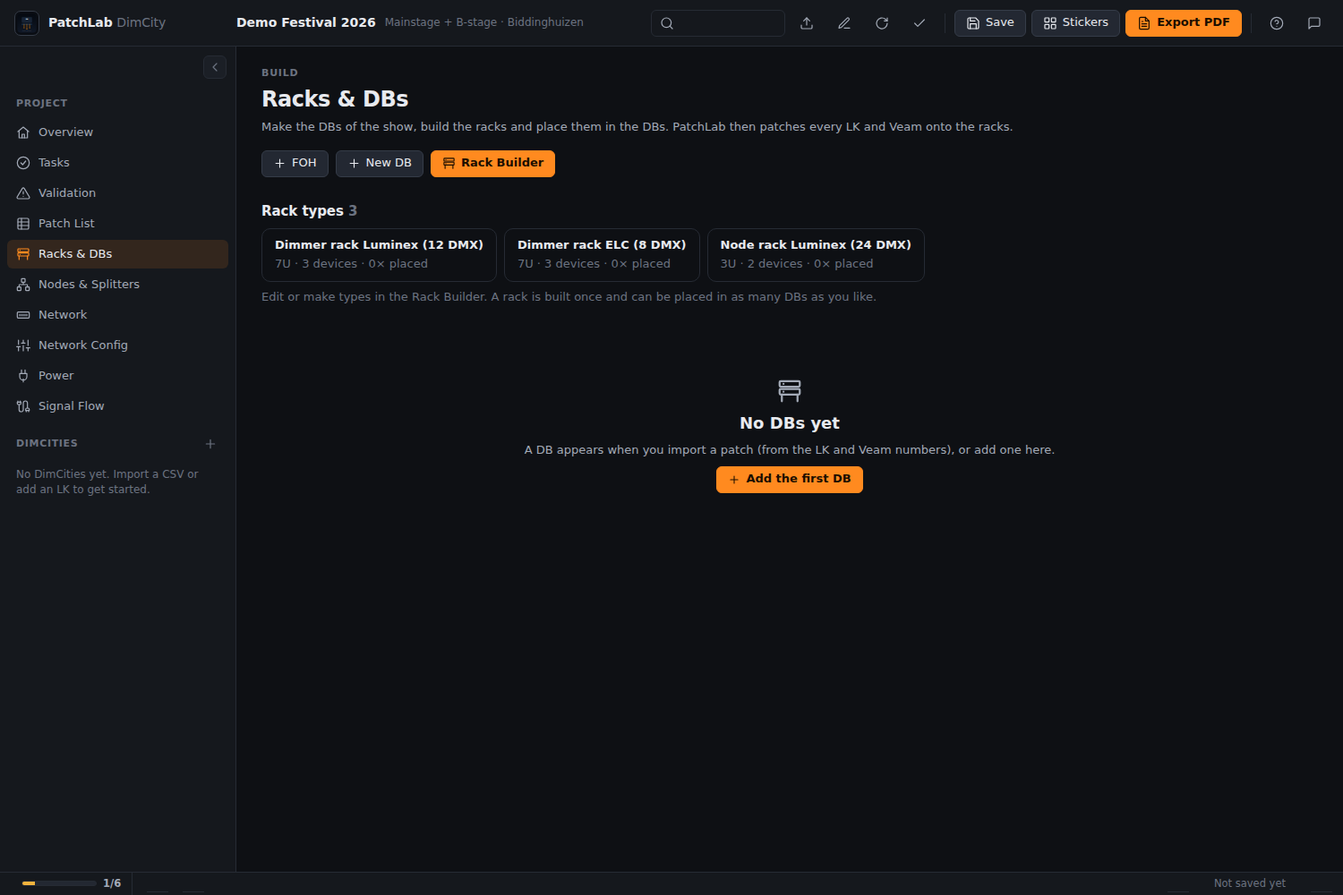
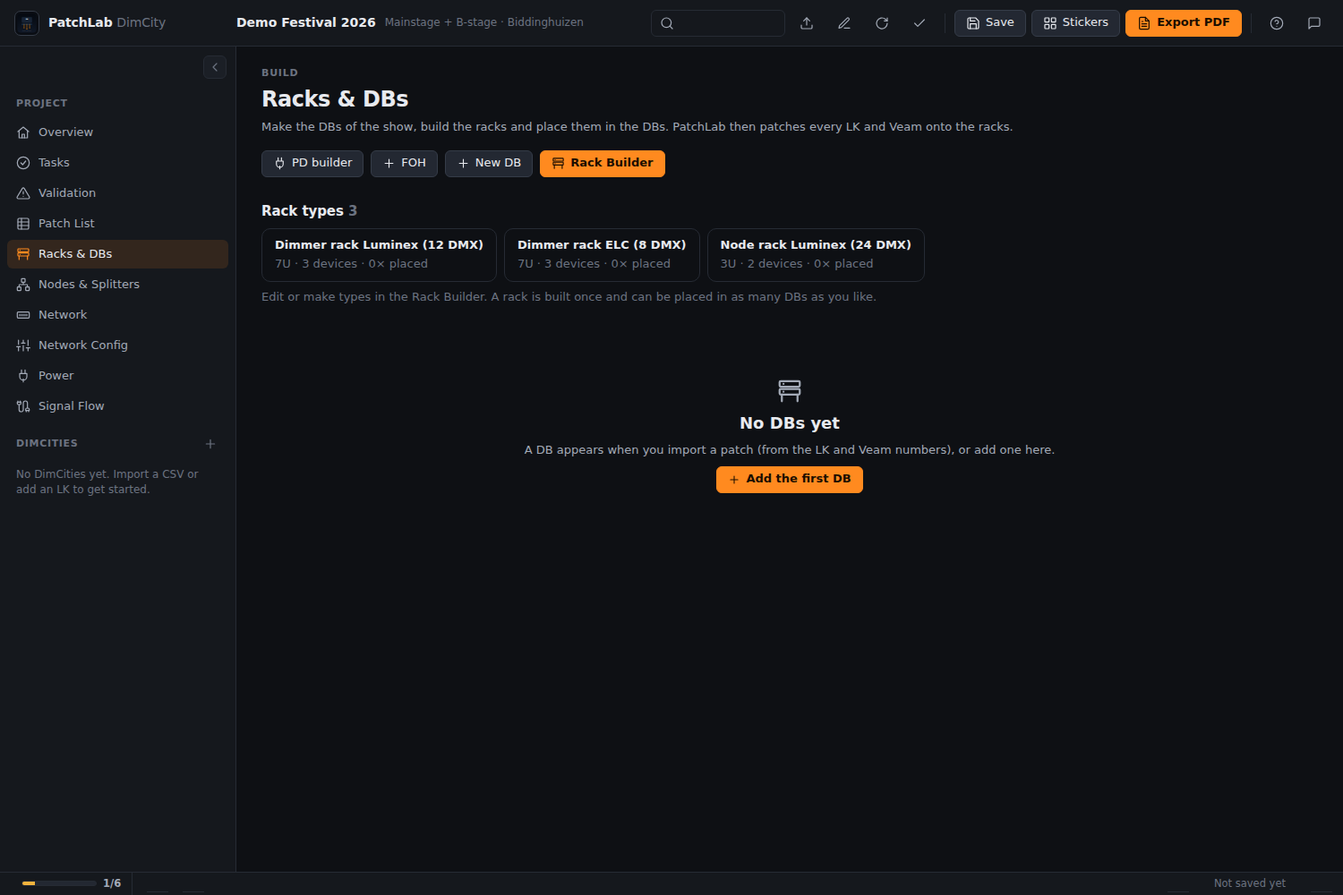
PD builder: phase per outlet, breaker groups with shared limits, order, front preview; button on the Racks & DBs page
Claude-Session: https://claude.ai/code/session_011zJcwnePXPnek3P52mJGYA

Changed region(s): [[0.2147, 0.155, 0.4907, 0.217]]

diff --git a/ui/power.js b/ui/power.js
@@ -29,7 +29,7 @@
     const sc = App.$('#mainScroll'), top = sc ? sc.scrollTop : 0;
     App.pageHead?.({ eyebrow:t('Power', 'Stroom'), title:t('Power distribution', 'Stroomverdeling'), sub:t('PDs, Socapex cables and feeds: what hangs where, and how many amps each phase pulls.', 'PD’s, Socapex-kabels en voedingen: wat waar hangt en hoeveel ampère elke fase trekt.'),
       actions:`<button id="pwImport">${I('upload', 15)}${t('Import fixture sheet…', 'Armaturenblad importeren…')}</button><button id="pwBookDc" ${p.pds.length && U.dc ? '' : 'disabled'}>${I('file', 15)}${t('Booklet', 'Boekje')} ${esc(U.dc || '')}</button><button class="primary" id="pwBook" ${p.pds.length ? '' : 'disabled'}>${I('file', 15)}${t('Booklet, all DBs (PDF)', 'Boekje, alle DB’s (PDF)')}</button><input type="file" id="pwFile" accept=".csv,.txt,.tsv" style="display:none">` });
-    const tabs = [['overview', t('Overview', 'Overzicht')], ['pds', t('PDs & feeds', 'PD’s & voedingen')], ['types', t('PD types', 'PD-typen')]];
+    const tabs = [['overview', t('Overview', 'Overzicht')], ['pds', t('PDs & feeds', 'PD’s & voedingen')], ['types', t('PD builder', 'PD-bouwer')]];
     root.innerHTML = `<div class="stack pw">
       <div class="pw-tabs">${tabs.map(([k, l]) => `<button class="${U.tab === k && !U.pd ? 'on' : ''}" data-tab="${k}">${l}</button>`).join('')}${U.pd ? `<button class="on">${esc(U.pd)}</button>` : ''}</div>
       ${U.msg ? `<div class="hint">${I('info', 13)} ${esc(U.msg)}</div>` : ''}
@@ -97,24 +97,41 @@
         rows.push(`<tr class="${i === 0 ? 'pw-first' : ''}">${i === 0 ? `<td rowspan="6" class="pw-soca">Soca ${s.letter}${s.cable ? `<br><small>${esc(s.cable)}</small>` : ''}</td>` : ''}<td>${r.slots.indexOf(s) + 1}.${n}</td><td>${esc(PW.dmxLabel(fx))}</td><td>${s.cable ? `${esc(s.cable)}-${n}` : ''}</td><td>${esc(PW.unitRanges(fx.map(f => f.unit)))}</td><td>${esc(PW.fixturesText(fx))}</td><td>${esc(PW.positionText(fx))}</td>${[1, 2, 3].map(q => `<td class="pw-n ${a > p.settings.circuitMax && ph === q ? 'bad' : ''}">${ph === q && a ? r1(a) : ''}</td>`).join('')}</tr>`); });
       rows.push(`<tr class="pw-sum"><td colspan="7">Total Soca ${s.letter}</td>${phaseCells(s.perPhase)}</tr>`);
     }
-    const man = r.manual.map(o => { const m = d.manual[o.key] || {}; return `<tr><td>${esc(o.label)}</td><td><input data-man="${esc(d.id)}" data-key="${esc(o.key)}" data-k="label" value="${esc(m.label || '')}" style="width:160px"></td><td><input data-man="${esc(d.id)}" data-key="${esc(o.key)}" data-k="location" value="${esc(m.location || '')}" style="width:120px"></td>${['l1', 'l2', 'l3'].map(k => `<td><input data-man="${esc(d.id)}" data-key="${esc(o.key)}" data-k="${k}" type="number" step="0.1" min="0" value="${m[k] || ''}" style="width:64px"></td>`).join('')}</tr>`; }).join('');
+    const man = r.manual.map(o => { const m = d.manual[o.key] || {}; return `<tr><td>${esc(o.label)}</td><td><input data-man="${esc(d.id)}" data-key="${esc(o.key)}" data-k="label" value="${esc(m.label || '')}" style="width:160px"></td><td><input data-man="${esc(d.id)}" data-key="${esc(o.key)}" data-k="location" value="${esc(m.location || '')}" style="width:120px"></td>${['l1', 'l2', 'l3'].map((k, qi) => `<td>${o.phase && o.phases !== 3 && o.phase !== qi + 1 ? '' : `<input data-man="${esc(d.id)}" data-key="${esc(o.key)}" data-k="${k}" type="number" step="0.1" min="0" value="${m[k] || ''}" style="width:64px">`}</td>`).join('')}</tr>`; }).join('');
     return `<div class="pw-sec"><div class="pw-bar"><button id="pwBack">← ${t('Back', 'Terug')}</button><b style="font-size:18px">${esc(d.id)}</b><span class="subtle">${esc(r.type?.name || '')} · ${esc(p.feeds.find(f => f.id === d.feedId)?.name || t('no feed', 'geen voeding'))}</span><span style="flex:1"></span><b>${r.perPhase.map(r1).join(' / ')} A</b></div>
       ${r.slots.length ? `<table class="data-table pw-t pw-book"><thead><tr><th></th><th>CH</th><th>DMX</th><th>Multi</th><th>Fix nr.</th><th>${t('Fixtures', 'Armaturen')}</th><th>${t('Location', 'Locatie')}</th><th>L1</th><th>L2</th><th>L3</th></tr></thead><tbody>${rows.join('')}</tbody></table>` : ''}
       ${r.manual.length ? `<h3>${t('Other outlets (type the load yourself)', 'Overige uitgangen (vul de belasting zelf in)')}</h3><table class="data-table pw-t"><thead><tr><th>${t('Outlet', 'Uitgang')}</th><th>${t('Name', 'Naam')}</th><th>${t('Location', 'Locatie')}</th><th>L1 A</th><th>L2 A</th><th>L3 A</th></tr></thead><tbody>${man}</tbody></table>` : ''}
+      ${r.groups.length ? `<h3>${t('Groups (breakers)', 'Groepen (automaten)')}</h3><table class="data-table pw-t"><thead><tr><th>${t('Group', 'Groep')}</th><th>${t('Outlets', 'Uitgangen')}</th><th>${t('Max A', 'Max A')}</th><th>L1</th><th>L2</th><th>L3</th></tr></thead><tbody>${r.groups.map(g => `<tr><td><b>${esc(g.name)}</b></td><td class="pw-n">${g.outlets}</td><td class="pw-n">${g.amps || ''}</td>${phaseCells(g.perPhase, g.amps)}</tr>`).join('')}</tbody></table>` : ''}
       <table class="data-table pw-t pw-tot"><tbody><tr><td><b>TOTAL</b></td>${phaseCells(r.perPhase, max)}</tr></tbody></table></div>`;
   }
 
-  // ---------- PD types ----------
+  // ---------- PD types: the PD builder ----------
+  const PH = { 0:'', 1:'L1', 2:'L2', 3:'L3' }, PHC = { 1:'#a8652a', 2:'#3a3a3a', 3:'#8a8a8a' };
+  function typePreview(ty){
+    const outs = PW.outletsOf(ty), gname = id => (ty.groups || []).find(g => g.id === id)?.name || '';
+    if(!outs.length) return '';
+    const chip = o => { const ph = o.kind === 'soca' ? 'L1 L2 L3 · L1 L2 L3' : o.phases === 3 ? 'L1 L2 L3' : (PH[o.phase] || t('any phase', 'elke fase')); return `<div class="pw-out ${o.kind}"><b>${esc(o.label)}</b><span>${o.kind === 'soca' ? '6 × ' : ''}${o.amps || ''} A</span><span>${ph}</span>${o.group ? `<em>${esc(gname(o.group))}</em>` : ''}</div>`; };
+    return `<div class="pw-front"><div class="pw-front-in"><span>${esc(ty.input?.kind || '')} ${ty.input?.amps || ''} A</span></div><div class="pw-front-outs">${outs.map(chip).join('')}</div></div>`;
+  }
   function typesTab(p){
     const ty = p.types.find(x => x.id === U.type) || null;
-    const list = p.types.map(x => `<div class="pw-ty ${x.id === U.type ? 'on' : ''}" data-ty="${esc(x.id)}"><b>${esc(x.name)}</b><span class="subtle">${esc(x.input?.kind || '')} ${x.input?.amps || ''} A · ${PW.socaCount(x)} Soca · ${p.pds.filter(d => d.typeId === x.id).length}× ${t('used', 'gebruikt')}</span></div>`).join('');
+    const list = p.types.map(x => `<div class="pw-ty ${x.id === U.type ? 'on' : ''}" data-ty="${esc(x.id)}"><b>${esc(x.name)}</b><span class="subtle">${esc(x.input?.kind || '')} ${x.input?.amps || ''} A · ${PW.socaCount(x)} Soca · ${PW.outletsOf(x).length - PW.socaCount(x)} ${t('other outlets', 'overige uitgangen')} · ${p.pds.filter(d => d.typeId === x.id).length}× ${t('used', 'gebruikt')}</span></div>`).join('');
+    const grpOpts = g => [['', '–'], ...(ty.groups || []).map(x => [x.id, x.name])];
     const ed = ty ? `<div class="pw-sec"><div class="pw-row"><label>${t('Name', 'Naam')}<input id="tyName" value="${esc(ty.name)}" style="width:380px"></label>
         <label>${t('Input', 'Ingang')}${sel('id="tyIn"', [['Powerlock', 'Powerlock'], ['CEE', 'CEE'], ['Other', t('Other', 'Overig')]], ty.input?.kind || 'Powerlock')}</label><label>A<input id="tyAmps" type="number" min="0" value="${ty.input?.amps || ''}" style="width:80px"></label></div>
-      <h3>${t('Outputs', 'Uitgangen')}</h3><table class="data-table pw-t"><thead><tr><th>${t('Kind', 'Soort')}</th><th>${t('Count', 'Aantal')}</th><th>A</th><th>${t('Name', 'Naam')}</th><th>${t('Phases', 'Fases')}</th><th></th></tr></thead><tbody>
+      ${typePreview(ty)}
+      <h3>${t('Groups (breakers)', 'Groepen (automaten)')} <button class="sm" id="tyAddG">${I('plus', 12)} ${t('Group', 'Groep')}</button></h3>
+      <div class="subtle" style="margin-bottom:6px">${t('A group is one breaker. Give outlets the same group and they share its limit: four Schuko on one 16 A group may together pull 16 A.', 'Een groep is één automaat. Geef uitgangen dezelfde groep en ze delen zijn limiet: vier Schuko op één groep van 16 A mogen samen 16 A trekken.')}</div>
+      ${(ty.groups || []).length ? `<table class="data-table pw-t"><thead><tr><th>${t('Name', 'Naam')}</th><th>${t('Max A per phase', 'Max A per fase')}</th><th></th></tr></thead><tbody>${ty.groups.map((g, i) => `<tr><td><input data-g="${i}" data-k="name" value="${esc(g.name)}" style="width:170px"></td><td><input data-g="${i}" data-k="amps" type="number" min="0" value="${g.amps || ''}" style="width:80px"></td><td><button class="sm ghost" data-delg="${i}">${I('trash', 13)}</button></td></tr>`).join('')}</tbody></table>` : ''}
+      <h3>${t('Outputs, in the order they sit on the PD', 'Uitgangen, in de volgorde waarin ze op de PD zitten')}</h3><table class="data-table pw-t"><thead><tr><th>${t('Kind', 'Soort')}</th><th>${t('Count', 'Aantal')}</th><th>A</th><th>${t('Name', 'Naam')}</th><th>${t('Phase', 'Fase')}</th><th>${t('Group', 'Groep')}</th><th></th></tr></thead><tbody>
       ${ty.outputs.map((o, i) => `<tr><td>${sel(`data-o="${i}" data-k="kind"`, [['soca', 'Socapex (6 circuits)'], ['cee', 'CEE'], ['schuko', 'Schuko']], o.kind)}</td><td><input data-o="${i}" data-k="count" type="number" min="1" value="${o.count || 1}" style="width:64px"></td><td><input data-o="${i}" data-k="amps" type="number" min="0" value="${o.amps || ''}" style="width:70px"></td>
-        <td><input data-o="${i}" data-k="label" value="${esc(o.label || '')}" style="width:130px" ${o.kind === 'soca' ? 'disabled' : ''}></td><td>${o.kind === 'cee' ? sel(`data-o="${i}" data-k="phases"`, [['1', '1'], ['3', '3']], String(o.phases || 1)) : ''}</td><td><button class="sm ghost" data-delo="${i}">${I('trash', 13)}</button></td></tr>`).join('')}</tbody></table>
+        <td><input data-o="${i}" data-k="label" value="${esc(o.label || '')}" style="width:130px" ${o.kind === 'soca' ? 'disabled' : ''}></td>
+        <td>${o.kind === 'soca' ? `<span class="subtle">1-2-3-1-2-3</span>` : o.kind === 'cee' ? sel(`data-o="${i}" data-k="phases"`, [['1', t('1 phase', '1 fase')], ['3', t('3 phases', '3 fases')]], String(o.phases || 1)) + (o.phases === 3 ? '' : sel(`data-o="${i}" data-k="phase"`, [['0', t('any', 'elke')], ['1', 'L1'], ['2', 'L2'], ['3', 'L3']], String(o.phase || 0))) : sel(`data-o="${i}" data-k="phase"`, [['0', t('any', 'elke')], ['1', 'L1'], ['2', 'L2'], ['3', 'L3']], String(o.phase || 0))}</td>
+        <td>${sel(`data-o="${i}" data-k="group"`, grpOpts(), o.group || '')}</td>
+        <td style="white-space:nowrap"><button class="sm ghost" data-up="${i}" ${i ? '' : 'disabled'} title="${t('Up', 'Omhoog')}">↑</button><button class="sm ghost" data-dn="${i}" ${i < ty.outputs.length - 1 ? '' : 'disabled'} title="${t('Down', 'Omlaag')}">↓</button><button class="sm ghost" data-delo="${i}">${I('trash', 13)}</button></td></tr>`).join('')}</tbody></table>
       <div class="pw-row"><button class="sm" id="tyAddO">${I('plus', 12)} ${t('Output', 'Uitgang')}</button><span style="flex:1"></span><button class="sm danger" id="tyDel">${I('trash', 12)} ${t('Delete type', 'Type verwijderen')}</button></div></div>` : `<div class="subtle">${t('Pick a type, or make a new one.', 'Kies een type, of maak een nieuwe.')}</div>`;
-    return `<div class="pw-sec"><div class="pw-row"><button class="sm primary" id="tyNew">${I('plus', 12)} ${t('New PD type', 'Nieuw PD-type')}</button><button class="sm" id="tySamples">${t('Add the two examples', 'Voeg de twee voorbeelden toe')}</button></div>${list || `<div class="subtle">${t('No PD types yet.', 'Nog geen PD-typen.')}</div>`}</div>${ed}`;
+    return `<div class="pw-sec"><div class="hint">${I('info', 13)} ${t('This is where you build your PDs (power racks): the input, every outlet (Socapex, CEE 16-125 A, Schuko) in order, which phase each one sits on and which breaker group it belongs to. Then add PDs of this type to a DB under “PDs & feeds”.', 'Hier bouw je je PD’s (stroomracks): de ingang, elke uitgang (Socapex, CEE 16-125 A, Schuko) op volgorde, op welke fase elke zit en bij welke automaatgroep hij hoort. Voeg daarna onder “PD’s & voedingen” PD’s van dit type aan een DB toe.')}</div>
+      <div class="pw-row"><button class="sm primary" id="tyNew">${I('plus', 12)} ${t('New PD type', 'Nieuw PD-type')}</button><button class="sm" id="tySamples">${t('Add the two examples', 'Voeg de twee voorbeelden toe')}</button></div>${list || `<div class="subtle">${t('No PD types yet.', 'Nog geen PD-typen.')}</div>`}</div>${ed}`;
   }
 
   // ---------- events ----------
@@ -153,7 +170,12 @@
     const bv = (id, fn) => { const e = q(id); if(e) e.onchange = () => { fn(e.value); redo(); }; };
     if(ty){
       bv('#tyName', v => { ty.name = v; }); bv('#tyIn', v => { ty.input = { ...(ty.input || {}), kind:v }; }); bv('#tyAmps', v => { ty.input = { ...(ty.input || {}), amps:Number(v) || 0 }; });
-      qa('[data-o]').forEach(e => e.onchange = () => { const o = ty.outputs[Number(e.dataset.o)], k = e.dataset.k; o[k] = ['count', 'amps', 'phases'].includes(k) ? Number(e.value) || 0 : e.value; redo(); });
+      qa('[data-o]').forEach(e => e.onchange = () => { const o = ty.outputs[Number(e.dataset.o)], k = e.dataset.k; o[k] = ['count', 'amps', 'phases', 'phase'].includes(k) ? Number(e.value) || 0 : e.value; redo(); });
+      qa('[data-g]').forEach(e => e.onchange = () => { const g = ty.groups[Number(e.dataset.g)], k = e.dataset.k; g[k] = k === 'amps' ? Number(e.value) || 0 : e.value; redo(); });
+      const ag = q('#tyAddG'); if(ag) ag.onclick = () => { ty.groups = ty.groups || []; ty.groups.push({ id:PW.newId('G'), name:`${t('Group', 'Groep')} ${ty.groups.length + 1}`, amps:16 }); redo(); };
+      qa('[data-delg]').forEach(b => b.onclick = () => { const g = ty.groups.splice(Number(b.dataset.delg), 1)[0]; ty.outputs.forEach(o => { if(o.group === g.id) o.group = ''; }); redo(); });
+      qa('[data-up]').forEach(b => b.onclick = () => { const i = Number(b.dataset.up); [ty.outputs[i - 1], ty.outputs[i]] = [ty.outputs[i], ty.outputs[i - 1]]; redo(); });
+      qa('[data-dn]').forEach(b => b.onclick = () => { const i = Number(b.dataset.dn); [ty.outputs[i + 1], ty.outputs[i]] = [ty.outputs[i], ty.outputs[i + 1]]; redo(); });
       qa('[data-delo]').forEach(b => b.onclick = () => { ty.outputs.splice(Number(b.dataset.delo), 1); redo(); });
       const ao = q('#tyAddO'); if(ao) ao.onclick = () => { ty.outputs.push({ kind:'cee', count:1, amps:32, label:'32A', phases:3 }); redo(); };
       const dl = q('#tyDel'); if(dl) dl.onclick = () => { if(p.pds.some(d => d.typeId === ty.id)){ App.ui.toast(t('This type is used by a PD', 'Dit type wordt door een PD gebruikt'), 'err'); return; } p.types = p.types.filter(x => x !== ty); U.type = null; redo(); };

diff --git a/core/manual.js b/core/manual.js
@@ -719,7 +719,7 @@ Buiten de desktop-app antwoorden gesimuleerde apparaten zodat je het kunt uitpro
 
 ## What it does
 - The **fixture sheet** (CSV from Vectorworks / Lightwright) is the source. Its **Circuit Name** is a Socapex cable (M101 …), **Circuit Number** the circuit 1–6, **Wattage** gives the current (watt ÷ 230 V). The first digit of M101 names the DB (M1xx = DB1). Circuits 1…6 sit on L1 L2 L3 L1 L2 L3.
-- **PD types** (like node types): input (Powerlock / CEE, amps) and outputs (Socapex with 6 circuits, CEE 16–125 A, Schuko). Two examples can be added with one click.
+- **PD builder** (tab “PD builder”, also the button **PD builder** on the Racks & DBs page): this is where you build your own PDs, like node types. Choose the input (Powerlock / CEE, amps), add the outputs in the order they sit on the PD (Socapex with 6 circuits, CEE 16–125 A single or three phase, Schuko), choose the phase of each single-phase outlet, and make **groups** (breakers): outlets with the same group share its limit. A drawing of the front shows what you built. Two examples can be added with one click.
 - **PDs & feeds** per DimCity: add a feed (a Powerlock / CEE run with its maximum current; one feed can loop on from another, then it counts in that one too), add PDs, choose their type and feed. **Fill cables automatically** gives each PD a block of 12 cable numbers (M101–M112, M113–M124 …), packed in order as Soca A, B, C …, or choose a cable per Socapex yourself.
 - **Overview**: per DimCity the PDs and feeds with L1 / L2 / L3 in amps, and warnings: a circuit above 16 A, a feed too heavy or uneven, a cable not on a PD, a PD without a feed, fixtures straight on a DB, fixtures without wattage.
 - **A PD** opens like a page of the booklet: per Socapex the six circuits with the DMX universe, cable-circuit (M101-1), fixture numbers (401 - 406), what hangs there ("6* CLF Lighting Aorun"), the location and the amps on the phase, with totals. The other outlets (CEE, Schuko) get their load typed in by you.
@@ -733,7 +733,7 @@ Buiten de desktop-app antwoorden gesimuleerde apparaten zodat je het kunt uitpro
 
 ## Wat het doet
 - Het **armaturenblad** (CSV uit Vectorworks / Lightwright) is de bron. De **Circuit Name** is een Socapex-kabel (M101 …), **Circuit Number** het circuit 1–6, **Wattage** geeft de stroom (watt ÷ 230 V). Het eerste cijfer van M101 is de DB (M1xx = DB1). Circuit 1…6 zitten op L1 L2 L3 L1 L2 L3.
-- **PD-typen** (zoals node-typen): ingang (Powerlock / CEE, ampère) en uitgangen (Socapex met 6 circuits, CEE 16–125 A, Schuko). Twee voorbeelden voeg je met één klik toe.
+- **PD-bouwer** (tab “PD-bouwer”, ook de knop **PD-bouwer** op de pagina Racks & DB’s): hier bouw je zelf je PD’s, zoals node-typen. Kies de ingang (Powerlock / CEE, ampère), voeg de uitgangen toe in de volgorde waarin ze op de PD zitten (Socapex met 6 circuits, CEE 16–125 A één- of driefase, Schuko), kies de fase van elke eenfase-uitgang en maak **groepen** (automaten): uitgangen met dezelfde groep delen zijn limiet. Een tekening van de voorkant toont wat je gebouwd hebt. Twee voorbeelden voeg je met één klik toe.
 - **PD’s & voedingen** per DimCity: voeg een voeding toe (een Powerlock- of CEE-run met zijn maximale stroom; een voeding kan doorlopen vanaf een andere, dan telt hij daar ook in mee), voeg PD’s toe en kies hun type en voeding. **Kabels automatisch vullen** geeft elke PD een blok van 12 kabelnummers (M101–M112, M113–M124 …), op volgorde als Soca A, B, C …, of kies zelf een kabel per Socapex.
 - **Overzicht**: per DimCity de PD’s en voedingen met L1 / L2 / L3 in ampère, en waarschuwingen: een circuit boven 16 A, een voeding te zwaar of te scheef, een kabel niet op een PD, een PD zonder voeding, armaturen direct op een DB, armaturen zonder wattage.
 - **Een PD** opent als een pagina uit het boekje: per Socapex de zes circuits met DMX-universe, kabel-circuit (M101-1), armatuurnummers (401 - 406), wat er hangt ("6* CLF Lighting Aorun"), de locatie en de ampère op de fase, met totalen. De overige uitgangen (CEE, Schuko) vul je zelf in.

diff --git a/ui/racks-page.js b/ui/racks-page.js
@@ -17,7 +17,7 @@
     const types = M().networkDevices?.rackTypes || [];
     const sc = App.$('#mainScroll'), top = sc ? sc.scrollTop : 0;
     App.pageHead?.({ eyebrow:t('Build', 'Bouwen'), title:t('Racks & DBs', 'Racks & DB’s'), sub:t('Make the DBs of the show, build the racks and place them in the DBs. PatchLab then patches every LK and Veam onto the racks.', 'Maak de DB’s van de show, bouw de racks en plaats ze in de DB’s. PatchLab patcht daarna elke LK en Veam op de racks.'),
-      actions:`<button id="rkAddFoh" ${ds.includes('FOH') ? 'disabled' : ''}>${I('plus', 15)}FOH</button><button id="rkAddDb">${I('plus', 15)}${t('New DB', 'Nieuwe DB')}</button><button class="primary" id="rkBuilder">${I('rack', 15)}${t('Rack Builder', 'Rack Builder')}</button>` });
+      actions:`<button id="rkPd" title="${t('Build the power racks (PDs): outlets, phases, groups', 'Bouw de stroomracks (PD’s): uitgangen, fases, groepen')}">${I('plug', 15)}${t('PD builder', 'PD-bouwer')}</button><button id="rkAddFoh" ${ds.includes('FOH') ? 'disabled' : ''}>${I('plus', 15)}FOH</button><button id="rkAddDb">${I('plus', 15)}${t('New DB', 'Nieuwe DB')}</button><button class="primary" id="rkBuilder">${I('rack', 15)}${t('Rack Builder', 'Rack Builder')}</button>` });
     const counts = id => ds.reduce((n, d) => n + (App.net.getDimPlan(d).racks || []).filter(r => r.rackId === id).length, 0);
     const lib = `<div class="rk-lib"><h3>${t('Rack types', 'Racktypes')} <span class="subtle">${types.length}</span></h3>${types.length ? `<div class="rk-types">${types.map(r => `<div class="rk-type"><b>${esc(r.name || r.id)}</b><span class="subtle">${r.heightU}U · ${(r.items || []).length} ${t('devices', 'apparaten')} · ${counts(r.id)}× ${t('placed', 'geplaatst')}</span></div>`).join('')}</div><div class="subtle">${t('Edit or make types in the Rack Builder. A rack is built once and can be placed in as many DBs as you like.', 'Wijzig of maak typen in de Rack Builder. Een rack bouw je één keer en je plaatst hem in zoveel DB’s als je wilt.')}</div>` : `<div class="hint">${I('info', 13)} ${t('No rack types yet. Press “Rack Builder” to build your first rack (choose the devices that sit in it), or place a custom rack straight in a DB below.', 'Nog geen racktypen. Druk op “Rack Builder” om je eerste rack te bouwen (kies de apparaten die erin zitten), of plaats hieronder een eigen rack direct in een DB.')}</div>`}</div>`;
     const chips = ds.length ? `<div class="rb-chips">${ds.map(d => { const n = (App.net.getDimPlan(d).racks || []).length; return `<label class="rb-chip ${d === U.dc ? 'on' : ''}"><input type="radio" name="rkdc" data-dc="${esc(d)}" ${d === U.dc ? 'checked' : ''}><i class="dot" style="background:${App.dimColor(d)}"></i>${esc(d)}<span class="subtle">${n} ${t('racks', 'racks')}</span></label>`; }).join('')}</div>` : '';
@@ -30,6 +30,7 @@
     const addDb = name => { const r = App.addDimCity(name); if(!r.ok){ App.ui.toast(r.error, 'err'); return; } U.dc = r.id; App.renderAll(); App.ui.toast(`${r.id} ${t('added — now place a rack in it', 'toegevoegd — plaats er nu een rack in')}`, 'ok'); };
     const on = (id, fn, scope = document) => { const e = scope.querySelector(id); if(e) e.onclick = fn; };
     on('#rkAddDb', () => addDb(App.nextDbName())); on('#rkAddDb2', () => addDb(App.nextDbName())); on('#rkAddFoh', () => addDb('FOH'));
+    on('#rkPd', () => { window.Power && (window.Power.state.tab = 'types', window.Power.state.pd = null); App.navigate('POWER'); });
     on('#rkBuilder', () => App.runCommand?.('deviceBuilder', 'rack'));
     root.querySelectorAll('[data-dc]').forEach(i => i.onchange = () => { U.dc = i.dataset.dc; render(); });
     if(U.dc) window.RackPlan?.bind?.(root, U.dc, render);

diff --git a/core/power.js b/core/power.js
@@ -75,8 +75,8 @@ export function outletsOf(type){
   for(const o of type?.outputs || []){
     const n = Math.max(0, Number(o.count) || 0);
     for(let i = 0; i < n; i++){
-      if(o.kind === 'soca'){ out.push({ key: 'S' + LETTERS[soca], kind: 'soca', label: 'Soca ' + LETTERS[soca], amps: num(o.amps) || 16 }); soca++; }
-      else { const lab = o.label || (o.kind === 'schuko' ? 'Schuko' : (o.amps || '') + 'A'); out.push({ key: `${lab}#${i + 1}`, kind: o.kind, label: n > 1 ? `${lab} ${i + 1}` : lab, amps: num(o.amps), phases: o.phases === 3 ? 3 : 1 }); }
+      if(o.kind === 'soca'){ out.push({ key: 'S' + LETTERS[soca], kind: 'soca', label: 'Soca ' + LETTERS[soca], amps: num(o.amps) || 16, group: o.group || '' }); soca++; }
+      else { const lab = o.label || (o.kind === 'schuko' ? 'Schuko' : (o.amps || '') + 'A'); out.push({ key: `${lab}#${i + 1}`, kind: o.kind, label: n > 1 ? `${lab} ${i + 1}` : lab, amps: num(o.amps), phases: o.kind === 'cee' && o.phases === 3 ? 3 : 1, phase: o.kind === 'cee' && o.phases === 3 ? 0 : (Number(o.phase) || 0), group: o.group || '' }); }
     }
   }
   return out;
@@ -161,6 +161,9 @@ export function compute(P, dims = []){
     });
     if(d.cables.length > socas.length) warn('err', `${d.id}: ${d.cables.length} cables but only ${socas.length} Socapex outputs.`, d.id);
     for(const o of outs.filter(o => o.kind !== 'soca')){ const m = d.manual[o.key] || {}, a = [num(m.l1), num(m.l2), num(m.l3)]; r.manual.push({ ...o, label2: m.label || '', location: m.location || '', perPhase: a }); addTo(r.perPhase, a); }
+    // the breaker groups of the type (a group can carry several outlets, they share its limit)
+    r.groups = (type?.groups || []).map(g => { const per = zero(); let n = 0; for(const o of outs) if(o.group === g.id){ n++; if(o.kind === 'soca'){ const sl = r.slots.find(x => 'Soca ' + x.letter === o.label); if(sl) addTo(per, sl.perPhase); } else { const m = r.manual.find(x => x.key === o.key); if(m) addTo(per, m.perPhase); } } return { ...g, outlets: n, perPhase: per }; });
+    for(const g of r.groups) if(num(g.amps) && g.perPhase.some(x => x > num(g.amps) + 1e-9)) warn('err', `${d.id} group ${g.name}: ${g.perPhase.map(round1).join(' / ')} A is more than ${g.amps} A.`, d.id);
     res.pds.set(d.id, r);
     if(!d.feedId) warn('warn', `${d.id} has no feed (Powerlock run).`, d.id);
     for(const s of r.slots) for(const k of (s.data?.circuits.values() || [])) if(k.amps > S.circuitMax + 1e-9) warn('err', `${d.id} Soca ${s.letter} (${s.cable}-${k.n}): ${round1(k.amps)} A is more than ${S.circuitMax} A.`, d.id);

diff --git a/styles/app.css b/styles/app.css
@@ -1337,3 +1337,9 @@ body.view-flow .view{width:100%}
 /* ---- Racks & DBs page ---- */
 .rk-lib{margin:4px 0 14px}.rk-lib h3{margin:6px 0 8px;font-size:15px}
 .rk-types{display:flex;flex-wrap:wrap;gap:8px;margin-bottom:8px}.rk-type{display:flex;flex-direction:column;gap:2px;padding:9px 14px;border:1px solid var(--border);border-radius:10px;min-width:170px}
+
+.pw-front{display:flex;gap:10px;align-items:stretch;margin:10px 0 14px;padding:10px;border:1px solid var(--border);border-radius:12px;background:color-mix(in srgb,var(--text) 4%,transparent)}
+.pw-front-in{writing-mode:vertical-rl;transform:rotate(180deg);padding:6px 4px;font-weight:700;color:#ff8a1f;font-size:12px;white-space:nowrap}
+.pw-front-outs{display:flex;flex-wrap:wrap;gap:6px;flex:1}
+.pw-out{display:flex;flex-direction:column;gap:1px;min-width:92px;padding:6px 9px;border:1px solid var(--border);border-radius:8px;font-size:11px;background:var(--bg,#111)}
+.pw-out b{font-size:12px}.pw-out.soca{border-color:#4ea8ff}.pw-out.cee{border-color:#ff8a1f}.pw-out.schuko{border-color:#35c47c}.pw-out em{font-style:normal;color:#e6b422}

diff --git a/docs/USER_MANUAL.md b/docs/USER_MANUAL.md
@@ -452,7 +452,7 @@ The page **Power** is a part of its own: it keeps its data in the project (model
 
 ### What it does
 - The **fixture sheet** (CSV from Vectorworks / Lightwright) is the source. Its **Circuit Name** is a Socapex cable (M101 …), **Circuit Number** the circuit 1–6, **Wattage** gives the current (watt ÷ 230 V). The first digit of M101 names the DB (M1xx = DB1). Circuits 1…6 sit on L1 L2 L3 L1 L2 L3.
-- **PD types** (like node types): input (Powerlock / CEE, amps) and outputs (Socapex with 6 circuits, CEE 16–125 A, Schuko). Two examples can be added with one click.
+- **PD builder** (tab “PD builder”, also the button **PD builder** on the Racks & DBs page): this is where you build your own PDs, like node types. Choose the input (Powerlock / CEE, amps), add the outputs in the order they sit on the PD (Socapex with 6 circuits, CEE 16–125 A single or three phase, Schuko), choose the phase of each single-phase outlet, and make **groups** (breakers): outlets with the same group share its limit. A drawing of the front shows what you built. Two examples can be added with one click.
 - **PDs & feeds** per DimCity: add a feed (a Powerlock / CEE run with its maximum current; one feed can loop on from another, then it counts in that one too), add PDs, choose their type and feed. **Fill cables automatically** gives each PD a block of 12 cable numbers (M101–M112, M113–M124 …), packed in order as Soca A, B, C …, or choose a cable per Socapex yourself.
 - **Overview**: per DimCity the PDs and feeds with L1 / L2 / L3 in amps, and warnings: a circuit above 16 A, a feed too heavy or uneven, a cable not on a PD, a PD without a feed, fixtures straight on a DB, fixtures without wattage.
 - **A PD** opens like a page of the booklet: per Socapex the six circuits with the DMX universe, cable-circuit (M101-1), fixture numbers (401 - 406), what hangs there ("6* CLF Lighting Aorun"), the location and the amps on the phase, with totals. The other outlets (CEE, Schuko) get their load typed in by you.
@@ -1274,7 +1274,7 @@ De pagina **Stroom** is een onderdeel op zich: de gegevens staan in het project 
 
 ### Wat het doet
 - Het **armaturenblad** (CSV uit Vectorworks / Lightwright) is de bron. De **Circuit Name** is een Socapex-kabel (M101 …), **Circuit Number** het circuit 1–6, **Wattage** geeft de stroom (watt ÷ 230 V). Het eerste cijfer van M101 is de DB (M1xx = DB1). Circuit 1…6 zitten op L1 L2 L3 L1 L2 L3.
-- **PD-typen** (zoals node-typen): ingang (Powerlock / CEE, ampère) en uitgangen (Socapex met 6 circuits, CEE 16–125 A, Schuko). Twee voorbeelden voeg je met één klik toe.
+- **PD-bouwer** (tab “PD-bouwer”, ook de knop **PD-bouwer** op de pagina Racks & DB’s): hier bouw je zelf je PD’s, zoals node-typen. Kies de ingang (Powerlock / CEE, ampère), voeg de uitgangen toe in de volgorde waarin ze op de PD zitten (Socapex met 6 circuits, CEE 16–125 A één- of driefase, Schuko), kies de fase van elke eenfase-uitgang en maak **groepen** (automaten): uitgangen met dezelfde groep delen zijn limiet. Een tekening van de voorkant toont wat je gebouwd hebt. Twee voorbeelden voeg je met één klik toe.
 - **PD’s & voedingen** per DimCity: voeg een voeding toe (een Powerlock- of CEE-run met zijn maximale stroom; een voeding kan doorlopen vanaf een andere, dan telt hij daar ook in mee), voeg PD’s toe en kies hun type en voeding. **Kabels automatisch vullen** geeft elke PD een blok van 12 kabelnummers (M101–M112, M113–M124 …), op volgorde als Soca A, B, C …, of kies zelf een kabel per Socapex.
 - **Overzicht**: per DimCity de PD’s en voedingen met L1 / L2 / L3 in ampère, en waarschuwingen: een circuit boven 16 A, een voeding te zwaar of te scheef, een kabel niet op een PD, een PD zonder voeding, armaturen direct op een DB, armaturen zonder wattage.
 - **Een PD** opent als een pagina uit het boekje: per Socapex de zes circuits met DMX-universe, kabel-circuit (M101-1), armatuurnummers (401 - 406), wat er hangt ("6* CLF Lighting Aorun"), de locatie en de ampère op de fase, met totalen. De overige uitgangen (CEE, Schuko) vul je zelf in.
